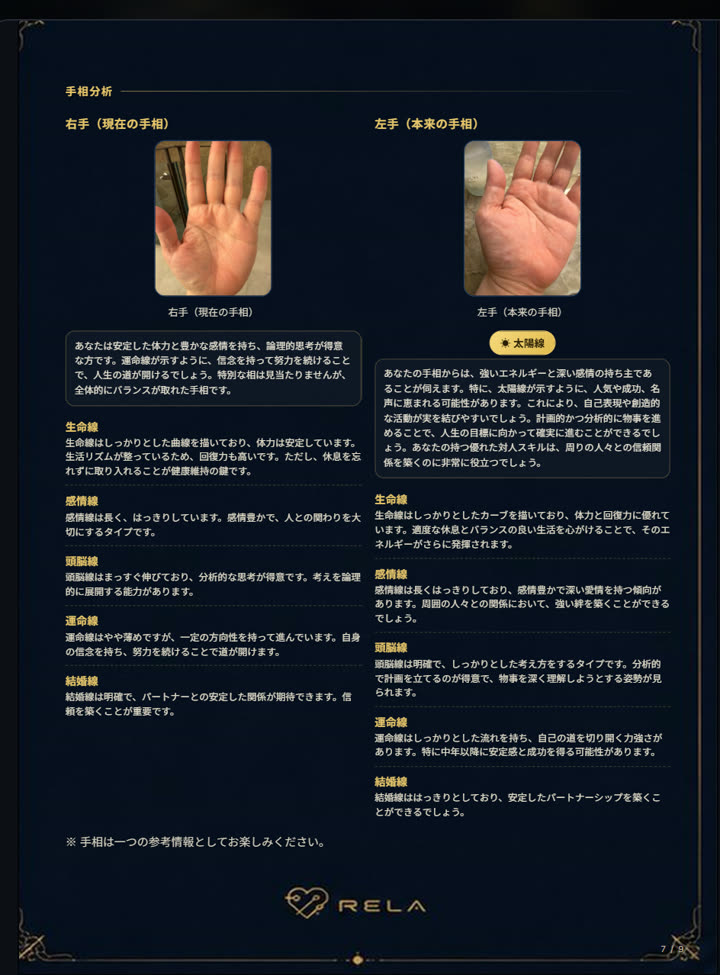
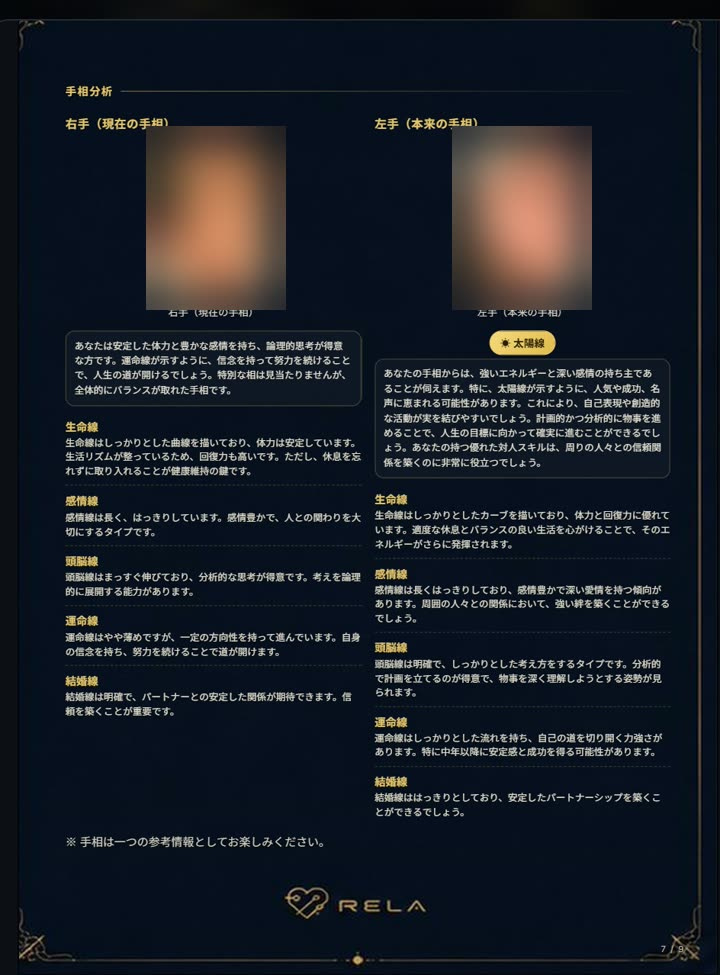
チーム編成を独立ページ化/分析・鑑定に機能追加/手相ぼかし/「分析＋鑑定」表記の明確化
- チーム編成: TOPに5つ目のボタン「最高のチームを作る」新設→team.html新規作成
  (種類・メンバー選択＋役割配置提案の2スクショ、3ステップ、使える場面を詳説)。全ページのヘッダーnavにも追加
- 分析・鑑定: 運気バイオリズム・属性神社(パワースポット)のカードを追加(計10機能)
- カルテ: 手相の実写真2枚にぼかしを適用(プライバシー配慮)
- 表記: 「分析＋鑑定」の全角＋が十(10)に誤読されるため「分析・鑑定」に統一(全9箇所)

Claude-Session: https://claude.ai/code/session_01YbZmS2p1nudwBAHshJSb75

diff --git a/team.html b/team.html
@@ -3,7 +3,7 @@
 <head>
 <meta charset="UTF-8">
 <meta name="viewport" content="width=device-width, initial-scale=1.0">
-<title>分析・鑑定｜RELA（リラ）</title>
+<title>チーム編成｜RELA（リラ）</title>
 <meta name="theme-color" content="#03040a">
 <meta name="color-scheme" content="dark">
 <meta property="og:type" content="website">
@@ -569,24 +569,41 @@ footer{position:relative;z-index:1;border-top:1px solid var(--line);padding:44px
 .back-link:hover{border-color:var(--cyan);background:rgba(61,123,255,.18);box-shadow:0 0 16px rgba(79,216,255,.3)}
 .back-link .bl-ar{font-size:19px;line-height:1;margin-top:-2px}
 .back-row{text-align:left;margin-bottom:14px}
-.rd-gallery{display:grid;grid-template-columns:repeat(4,1fr);gap:22px;max-width:1000px;margin:0 auto}
-.rd-gallery figure{margin:0}
-.rd-gallery img{width:100%;border-radius:14px;border:1px solid var(--line);box-shadow:0 12px 34px rgba(0,0,0,.5)}
-.rd-gallery figcaption{font-size:12px;color:var(--ink-soft);margin-top:10px;line-height:1.6;text-align:left}
-.rd-gallery figcaption b{display:block;color:var(--ink);font-size:13px;margin-bottom:2px}
-.karte-gallery{grid-template-columns:repeat(2,1fr);max-width:840px}
-.karte-gallery img{box-shadow:0 18px 50px rgba(0,0,0,.6)}
-@media(max-width:860px){.rd-gallery{grid-template-columns:repeat(2,1fr);gap:16px}.karte-gallery{grid-template-columns:1fr;max-width:420px}}
-.rd-materials{max-width:1000px;margin:70px auto 0}
-.rm-title{font-family:'Shippori Mincho',serif;font-size:clamp(19px,2.6vw,25px);letter-spacing:.08em;text-align:center;margin-bottom:12px}
-.rm-note{color:var(--ink-soft);font-size:14px;line-height:1.85;max-width:660px;margin:0 auto 34px;text-align:center}
-.rm-note b{color:var(--cyan)}
-.rm-groups{display:grid;grid-template-columns:repeat(3,1fr);gap:18px;text-align:left}
-.rm-group{background:rgba(11,14,27,.55);border:1px solid var(--line);border-radius:14px;padding:18px 20px}
-.rm-cat{display:inline-block;font-size:12px;font-weight:700;letter-spacing:.08em;color:var(--cyan);margin-bottom:13px;padding:3px 12px;border:1px solid rgba(79,216,255,.4);border-radius:999px}
-.rm-group ul{list-style:none;margin:0;padding:0;display:flex;flex-wrap:wrap;gap:8px}
-.rm-group li{font-size:13px;color:var(--ink);background:rgba(61,123,255,.1);border:1px solid rgba(120,170,255,.22);border-radius:8px;padding:6px 11px;line-height:1.5}
-@media(max-width:860px){.rm-groups{grid-template-columns:1fr}}
+/* 自分の分析: 大きな注釈付きスクショ(縦積み・引き出し線) */
+.sa-block{position:relative;max-width:1080px;margin:0 auto 84px}
+.sa-figure{position:relative;width:100%}
+.sa-img{display:block;width:46%;margin:0 auto;border-radius:16px;border:1px solid var(--line);box-shadow:0 18px 54px rgba(0,0,0,.6)}
+.sa-svg{position:absolute;inset:0;width:100%;height:100%;pointer-events:none;overflow:visible;z-index:1}
+.sa-ln{stroke:#5fd8ff;stroke-width:1.3;fill:none;vector-effect:non-scaling-stroke;stroke-linecap:round;filter:drop-shadow(0 0 3px rgba(95,216,255,.9));opacity:.85;stroke-dasharray:5 4;animation:alnFlow 2.4s linear infinite}
+.sa-dot{position:absolute;transform:translate(-50%,-50%);width:11px;height:11px;border-radius:50%;z-index:2;background:radial-gradient(circle,#c8f4ff,#5fd8ff 55%,#7a6cf5);box-shadow:0 0 0 2px rgba(3,4,10,.5),0 0 10px rgba(79,216,255,.95);animation:amkPulse 2.2s ease-in-out infinite}
+.sa-lb{position:absolute;width:23%;transform:translateY(-50%);font-size:12.5px;line-height:1.6;color:var(--ink-soft);z-index:2}
+.sa-lb b{display:block;color:var(--ink);font-size:13.5px;margin-bottom:2px}
+.sa-lb.l{left:1%;text-align:right}
+.sa-lb.r{right:1%;text-align:left}
+.sa-cap{max-width:560px;margin:22px auto 0;text-align:center;color:var(--ink-soft);font-size:14px;line-height:1.85}
+.sa-cap b{color:var(--ink)}
+@media(max-width:860px){
+  .sa-figure{display:flex;flex-direction:column;align-items:center}
+  .sa-img{width:min(360px,90vw)}
+  .sa-svg,.sa-dot{display:none}
+  .sa-lb{position:static!important;transform:none;width:100%;max-width:360px;text-align:left!important;display:flex;gap:9px;margin-top:11px}
+  .sa-lb.l,.sa-lb.r{left:auto;right:auto}
+  .sa-lb::before{content:"▹";flex:0 0 auto;color:var(--cyan);font-weight:800}
+  .sa-block{margin-bottom:52px}
+}
+.tm-shots{display:flex;gap:26px;justify-content:center;flex-wrap:wrap;max-width:820px;margin:0 auto 10px}
+.tm-shots figure{margin:0;max-width:320px;flex:1 1 300px}
+.tm-shots img{width:100%;border-radius:16px;border:1px solid var(--line);box-shadow:0 14px 40px rgba(0,0,0,.55)}
+.tm-shots figcaption{font-size:13px;color:var(--ink-soft);margin-top:12px;line-height:1.7;text-align:left}
+.tm-shots figcaption b{display:block;color:var(--ink);font-size:14.5px;margin-bottom:3px}
+.tm-h{font-family:'Shippori Mincho',serif;font-size:clamp(18px,2.5vw,23px);letter-spacing:.06em;margin:56px 0 26px}
+.tm-steps{display:grid;grid-template-columns:repeat(3,1fr);gap:16px;max-width:900px;margin:0 auto;text-align:left}
+.tm-step{background:rgba(11,14,27,.55);border:1px solid var(--line);border-radius:14px;padding:20px;font-size:13px;color:var(--ink-soft);line-height:1.7}
+.tm-step b{display:block;color:var(--ink);font-size:15px;margin:10px 0 4px}
+.tm-n{display:inline-flex;align-items:center;justify-content:center;width:30px;height:30px;border-radius:50%;font-family:'Inter',sans-serif;font-weight:700;color:#03040a;background:linear-gradient(135deg,#5fd8ff,#7a6cf5);box-shadow:0 0 14px rgba(79,216,255,.5)}
+.tm-uses{display:flex;flex-wrap:wrap;gap:10px;justify-content:center;max-width:720px;margin:48px auto 0}
+.tm-uses span{font-size:13px;color:var(--ink);background:rgba(61,123,255,.1);border:1px solid rgba(120,170,255,.25);border-radius:999px;padding:8px 16px}
+@media(max-width:760px){.tm-steps{grid-template-columns:1fr}}
 </style>
 </head>
 <body>
@@ -620,9 +637,9 @@ footer{position:relative;z-index:1;border-top:1px solid var(--line);padding:44px
     <div class="nav-links" id="nav-links">
       <a href="./partner.html">相手を可視化</a>
       <a href="./self.html">自分の分析</a>
-      <a href="./reading.html" class="active">分析・鑑定</a>
+      <a href="./reading.html">分析・鑑定</a>
       <a href="./karte.html">カルテ</a>
-      <a href="./team.html">チーム編成</a>
+      <a href="./team.html" class="active">チーム編成</a>
       <a href="./lp.html#plans">料金</a>
       <a class="btn btn-white" href="https://rela.website/?signup=1">無料ではじめる</a>
     </div>
@@ -630,91 +647,28 @@ footer{position:relative;z-index:1;border-top:1px solid var(--line);padding:44px
 </header>
 
 <!-- ================= ① 相手を読み解く ================= -->
-<section class="rd-sec" id="reading">
+<section class="rd-sec" id="team">
   <div class="wrap" style="text-align:center">
     <div class="back-row"><a class="back-link" href="./index.html#app"><span class="bl-ar">‹</span>トップへ戻る</a></div>
-    <h2 class="sec rv">分析・鑑定</h2>
+    <h2 class="sec rv">チーム編成</h2>
     <div class="sec-line rv"><span class="dot"></span></div>
-    <p class="rd-sub rv">運気バイオリズムなどの多角的な分析に、手相・人相・守護神・パワースポットといった“鑑定”の視点を融合。さらにAIが、あなたのプロフィールをもとに守護神・エネルギーカラー・未来ビジョン・チャクラのイメージ画像まで生成します。</p>
+    <p class="rd-sub rv">メンバーの生年月日やプロフィールから、AIが一人ひとりの特性を多角的に読み解き、会社・スポーツ・イベントなど目的に合わせて“適材適所”の役割配置を提案。最高のチームづくりを、占術×AIで。</p>
 
-    <div class="f-grid rv">
-      <div class="f-item rv">
-        <h3>運気バイオリズム</h3>
-        <div class="mini"><img class="mini-shot" src="assets/ss-biorhythm.jpg" alt="運気バイオリズム" loading="lazy"></div>
-        <p>四柱推命の十二運から、一年の運気の波（総合・仕事・恋愛・金）を月別グラフで可視化。動く時期がひと目でわかります。</p>
-      </div>
-      <div class="f-item rv">
-        <h3>手相分析</h3>
-        <div class="mini"><img class="mini-shot" src="assets/ss-palm.jpg" alt="手相分析" loading="lazy"></div>
-        <p>左右の手相から才能・運勢・人生傾向を詳しく読み解きます。</p>
-      </div>
-      <div class="f-item rv">
-        <h3>人相分析</h3>
-        <div class="mini"><img class="mini-shot" src="assets/ss-face.jpg" alt="人相・顔分析" loading="lazy"></div>
-        <p>顔写真から性格や思考傾向を分析。第一印象や強みを可視化します。</p>
-      </div>
-      <div class="f-item rv">
-        <h3>守護石</h3>
-        <div class="mini"><img class="mini-shot fit" src="assets/ss-stone.jpg" alt="守護石・パワーストーン" loading="lazy"></div>
-        <p>あなたを支える守護石（パワーストーン）と、その意味・活かし方をお届けします。</p>
-      </div>
-      <div class="f-item rv">
-        <h3>属性神社・パワースポット</h3>
-        <div class="mini"><img class="mini-shot" src="assets/ss-shrine.jpg" alt="属性神社・パワースポット" loading="lazy"></div>
-        <p>あなたの属性と相性の良い神社・パワースポットを、守護神とともにAIが提案します。</p>
-      </div>
-      <div class="f-item rv">
-        <h3>イメージ画像を生成</h3>
-        <div class="mini"><img class="mini-shot" src="assets/ss-imagegen.jpg" alt="AIイメージ画像生成" loading="lazy"></div>
-        <p>守護神・エネルギーカラー・未来ビジョンなどを、AIがあなただけのアート画像に。</p>
-      </div>
-      <div class="f-item rv">
-        <h3>チャクラ</h3>
-        <div class="mini"><img class="mini-shot" src="assets/ss-chakra.jpg" alt="チャクラ分析" loading="lazy"></div>
-        <p>12のチャクラの状態を分析し、心と体のバランスを整えるヒントに。</p>
-      </div>
-      <div class="f-item rv">
-        <h3>未来ビジョン</h3>
-        <div class="mini"><img class="mini-shot" src="assets/ss-future.jpg" alt="未来ビジョン" loading="lazy"></div>
-        <p>運気が満ちる場所と行動を、AIが一枚の情景に描き出します。</p>
-      </div>
-      <div class="f-item rv">
-        <h3>守護神</h3>
-        <div class="mini"><img class="mini-shot" src="assets/ss-guardian.jpg" alt="守護神" loading="lazy"></div>
-        <p>あなたの属性を宿す守護神を、AIが荘厳なアート画像に描き出します。</p>
-      </div>
-      <div class="f-item rv">
-        <h3>エネルギーカラー</h3>
-        <div class="mini"><img class="mini-shot" src="assets/ss-energy.jpg" alt="エネルギーカラー" loading="lazy"></div>
-        <p>あなたの“気”の粒子を、AIが幻想的なカラーアートで表現します。</p>
-      </div>
+    <div class="tm-shots rv">
+      <figure><img src="assets/ss-team.jpg" alt="チームの種類とメンバーを選ぶ" loading="lazy"><figcaption><b>種類とメンバーを選ぶ</b>会社・スポーツ・芸能・イベントなど、目的に合うチームの種類と、登録メンバーを選択します。</figcaption></figure>
+      <figure><img src="assets/ss-team-2.jpg" alt="役割配置の提案" loading="lazy"><figcaption><b>AIが役割配置を提案</b>各メンバーの日干・五行・MBTIなどから、リーダー・参謀・営業・管理まで適材適所と、その根拠を提示します。</figcaption></figure>
     </div>
 
-    <div class="rd-materials rv">
-      <h3 class="rm-title">RELAが照合する鑑定材料</h3>
-      <p class="rm-note">RELAは東洋命理から統計・心理学まで、<b>全18種</b>の鑑定材料を横断してあなたを読み解きます。画面に表示されるのは一部で、多くは“裏側”でAIの分析に使われています。</p>
-      <div class="rm-groups">
-        <div class="rm-group"><span class="rm-cat">東洋命理</span>
-          <ul><li>四柱推命（命式・日運）</li><li>算命学（中心星・十二大従星）</li><li>天中殺</li><li>九星気学</li><li>五行</li><li>易経（本卦）</li></ul>
-        </div>
-        <div class="rm-group"><span class="rm-cat">西洋・数運</span>
-          <ul><li>西洋占星術（星座）</li><li>数秘術（ライフパス・個人日）</li><li>バイオリズム</li></ul>
-        </div>
-        <div class="rm-group"><span class="rm-cat">統計・心理</span>
-          <ul><li>MBTI（16タイプ）</li><li>血液型</li><li>兄弟構成（出生順）</li></ul>
-        </div>
-        <div class="rm-group"><span class="rm-cat">姓名</span>
-          <ul><li>姓名判断</li></ul>
-        </div>
-        <div class="rm-group"><span class="rm-cat">観相</span>
-          <ul><li>手相</li><li>人相・顔分析</li></ul>
-        </div>
-        <div class="rm-group"><span class="rm-cat">スピリチュアル</span>
-          <ul><li>守護神・属性神社</li><li>チャクラ</li><li>パワーストーン</li></ul>
-        </div>
-      </div>
+    <h3 class="tm-h">使い方はかんたん3ステップ</h3>
+    <div class="tm-steps rv">
+      <div class="tm-step"><span class="tm-n">1</span><b>目的を選ぶ</b>会社・オフィス／スポーツ／芸能事務所／イベント運営など、チームの種類を選びます。</div>
+      <div class="tm-step"><span class="tm-n">2</span><b>メンバーを選ぶ</b>自分と、登録した相手からメンバーを選択（登録者は最初から全員選択）。</div>
+      <div class="tm-step"><span class="tm-n">3</span><b>AIが配置を提案</b>一人ひとりの特性を読み解き、役割ごとの適材適所と、その根拠まで提示します。</div>
     </div>
 
+    <div class="tm-uses rv">
+      <span>会社・オフィス</span><span>スポーツチーム</span><span>芸能事務所</span><span>総合病院</span><span>イベント運営</span><span>自由入力</span>
+    </div>
   </div>
 </section>
 

diff --git a/index.html b/index.html
@@ -217,8 +217,9 @@ footer a:hover{color:var(--cyan)}
   <div class="hero-nav seq s4">
     <a class="hnav-btn" href="./partner.html"><span class="hn-ic"><svg viewBox="0 0 24 24" fill="none" stroke="currentColor" stroke-width="1.6" stroke-linecap="round" stroke-linejoin="round"><circle cx="12" cy="9.3" r="3"/><path d="M6.6 19a5.5 5.5 0 0 1 10.8 0"/><path d="M3 6.5V4.5A1.5 1.5 0 0 1 4.5 3H6.5M21 6.5V4.5A1.5 1.5 0 0 0 19.5 3H17.5M3 17.5V19.5A1.5 1.5 0 0 0 4.5 21H6.5M21 17.5V19.5A1.5 1.5 0 0 1 19.5 21H17.5"/></svg></span><span class="hn-tx">相手を可視化する</span></a>
     <a class="hnav-btn" href="./self.html"><span class="hn-ic"><svg viewBox="0 0 24 24" fill="none" stroke="currentColor" stroke-width="1.6" stroke-linecap="round" stroke-linejoin="round"><circle cx="12" cy="12" r="8.5"/><circle cx="12" cy="12" r="4"/><circle cx="12" cy="12" r="1.1" fill="currentColor" stroke="none"/><path d="M12 12L18 8.5"/></svg></span><span class="hn-tx">自分の分析</span></a>
-    <a class="hnav-btn" href="./reading.html"><span class="hn-ic"><svg viewBox="0 0 24 24" fill="none" stroke="currentColor" stroke-width="1.6" stroke-linecap="round" stroke-linejoin="round"><path d="M11.5 2.6c.6 5.4 1.5 6.3 6.9 6.9-5.4.6-6.3 1.5-6.9 6.9-.6-5.4-1.5-6.3-6.9-6.9 5.4-.6 6.3-1.5 6.9-6.9Z"/><path d="M18 15c.3 2.3.6 2.6 2.9 2.9-2.3.3-2.6.6-2.9 2.9-.3-2.3-.6-2.6-2.9-2.9 2.3-.3 2.6-.6 2.9-2.9Z"/></svg></span><span class="hn-tx">分析＋鑑定</span></a>
+    <a class="hnav-btn" href="./reading.html"><span class="hn-ic"><svg viewBox="0 0 24 24" fill="none" stroke="currentColor" stroke-width="1.6" stroke-linecap="round" stroke-linejoin="round"><path d="M11.5 2.6c.6 5.4 1.5 6.3 6.9 6.9-5.4.6-6.3 1.5-6.9 6.9-.6-5.4-1.5-6.3-6.9-6.9 5.4-.6 6.3-1.5 6.9-6.9Z"/><path d="M18 15c.3 2.3.6 2.6 2.9 2.9-2.3.3-2.6.6-2.9 2.9-.3-2.3-.6-2.6-2.9-2.9 2.3-.3 2.6-.6 2.9-2.9Z"/></svg></span><span class="hn-tx">分析・鑑定</span></a>
     <a class="hnav-btn" href="./karte.html"><span class="hn-ic"><svg viewBox="0 0 24 24" fill="none" stroke="currentColor" stroke-width="1.6" stroke-linecap="round" stroke-linejoin="round"><rect x="4.5" y="3" width="15" height="18" rx="2"/><path d="M9 3.5V3a1.5 1.5 0 0 1 3 0v.5"/><line x1="8" y1="9" x2="16" y2="9"/><line x1="8" y1="13" x2="16" y2="13"/><line x1="8" y1="17" x2="13" y2="17"/></svg></span><span class="hn-tx">カルテ</span></a>
+    <a class="hnav-btn" href="./team.html"><span class="hn-ic"><svg viewBox="0 0 24 24" fill="none" stroke="currentColor" stroke-width="1.6" stroke-linecap="round" stroke-linejoin="round"><circle cx="8.5" cy="8" r="2.7"/><path d="M3.5 19.5a5 5 0 0 1 10 0"/><circle cx="16.8" cy="9" r="2.2"/><path d="M15 13.4a4.5 4.5 0 0 1 5.5 4.1"/></svg></span><span class="hn-tx">最高のチームを作る</span></a>
   </div>
   <p class="note seq s4">登録は無料。クレジットカードは必要ありません。</p>
 

diff --git a/karte.html b/karte.html
@@ -622,8 +622,9 @@ footer{position:relative;z-index:1;border-top:1px solid var(--line);padding:44px
     <div class="nav-links" id="nav-links">
       <a href="./partner.html">相手を可視化</a>
       <a href="./self.html">自分の分析</a>
-      <a href="./reading.html">分析＋鑑定</a>
+      <a href="./reading.html">分析・鑑定</a>
       <a href="./karte.html" class="active">カルテ</a>
+      <a href="./team.html">チーム編成</a>
       <a href="./lp.html#plans">料金</a>
       <a class="btn btn-white" href="https://rela.website/?signup=1">無料ではじめる</a>
     </div>

diff --git a/partner.html b/partner.html
@@ -626,8 +626,9 @@ footer{position:relative;z-index:1;border-top:1px solid var(--line);padding:44px
     <div class="nav-links" id="nav-links">
       <a href="./partner.html" class="active">相手を可視化</a>
       <a href="./self.html">自分の分析</a>
-      <a href="./reading.html">分析＋鑑定</a>
+      <a href="./reading.html">分析・鑑定</a>
       <a href="./karte.html">カルテ</a>
+      <a href="./team.html">チーム編成</a>
       <a href="./lp.html#plans">料金</a>
       <a class="btn btn-white" href="https://rela.website/?signup=1">無料ではじめる</a>
     </div>

diff --git a/self.html b/self.html
@@ -624,8 +624,9 @@ footer{position:relative;z-index:1;border-top:1px solid var(--line);padding:44px
     <div class="nav-links" id="nav-links">
       <a href="./partner.html">相手を可視化</a>
       <a href="./self.html" class="active">自分の分析</a>
-      <a href="./reading.html">分析＋鑑定</a>
+      <a href="./reading.html">分析・鑑定</a>
       <a href="./karte.html">カルテ</a>
+      <a href="./team.html">チーム編成</a>
       <a href="./lp.html#plans">料金</a>
       <a class="btn btn-white" href="https://rela.website/?signup=1">無料ではじめる</a>
     </div>

diff --git a/lp.html b/lp.html
@@ -587,8 +587,9 @@ footer{position:relative;z-index:1;border-top:1px solid var(--line);padding:44px
     <div class="nav-links" id="nav-links">
       <a href="./partner.html">相手を可視化</a>
       <a href="./self.html">自分の分析</a>
-      <a href="./reading.html">分析＋鑑定</a>
+      <a href="./reading.html">分析・鑑定</a>
       <a href="./karte.html">カルテ</a>
+      <a href="./team.html">チーム編成</a>
       <a href="#plans">料金</a>
       <a class="btn btn-white" href="https://rela.website/?signup=1">無料ではじめる</a>
     </div>
